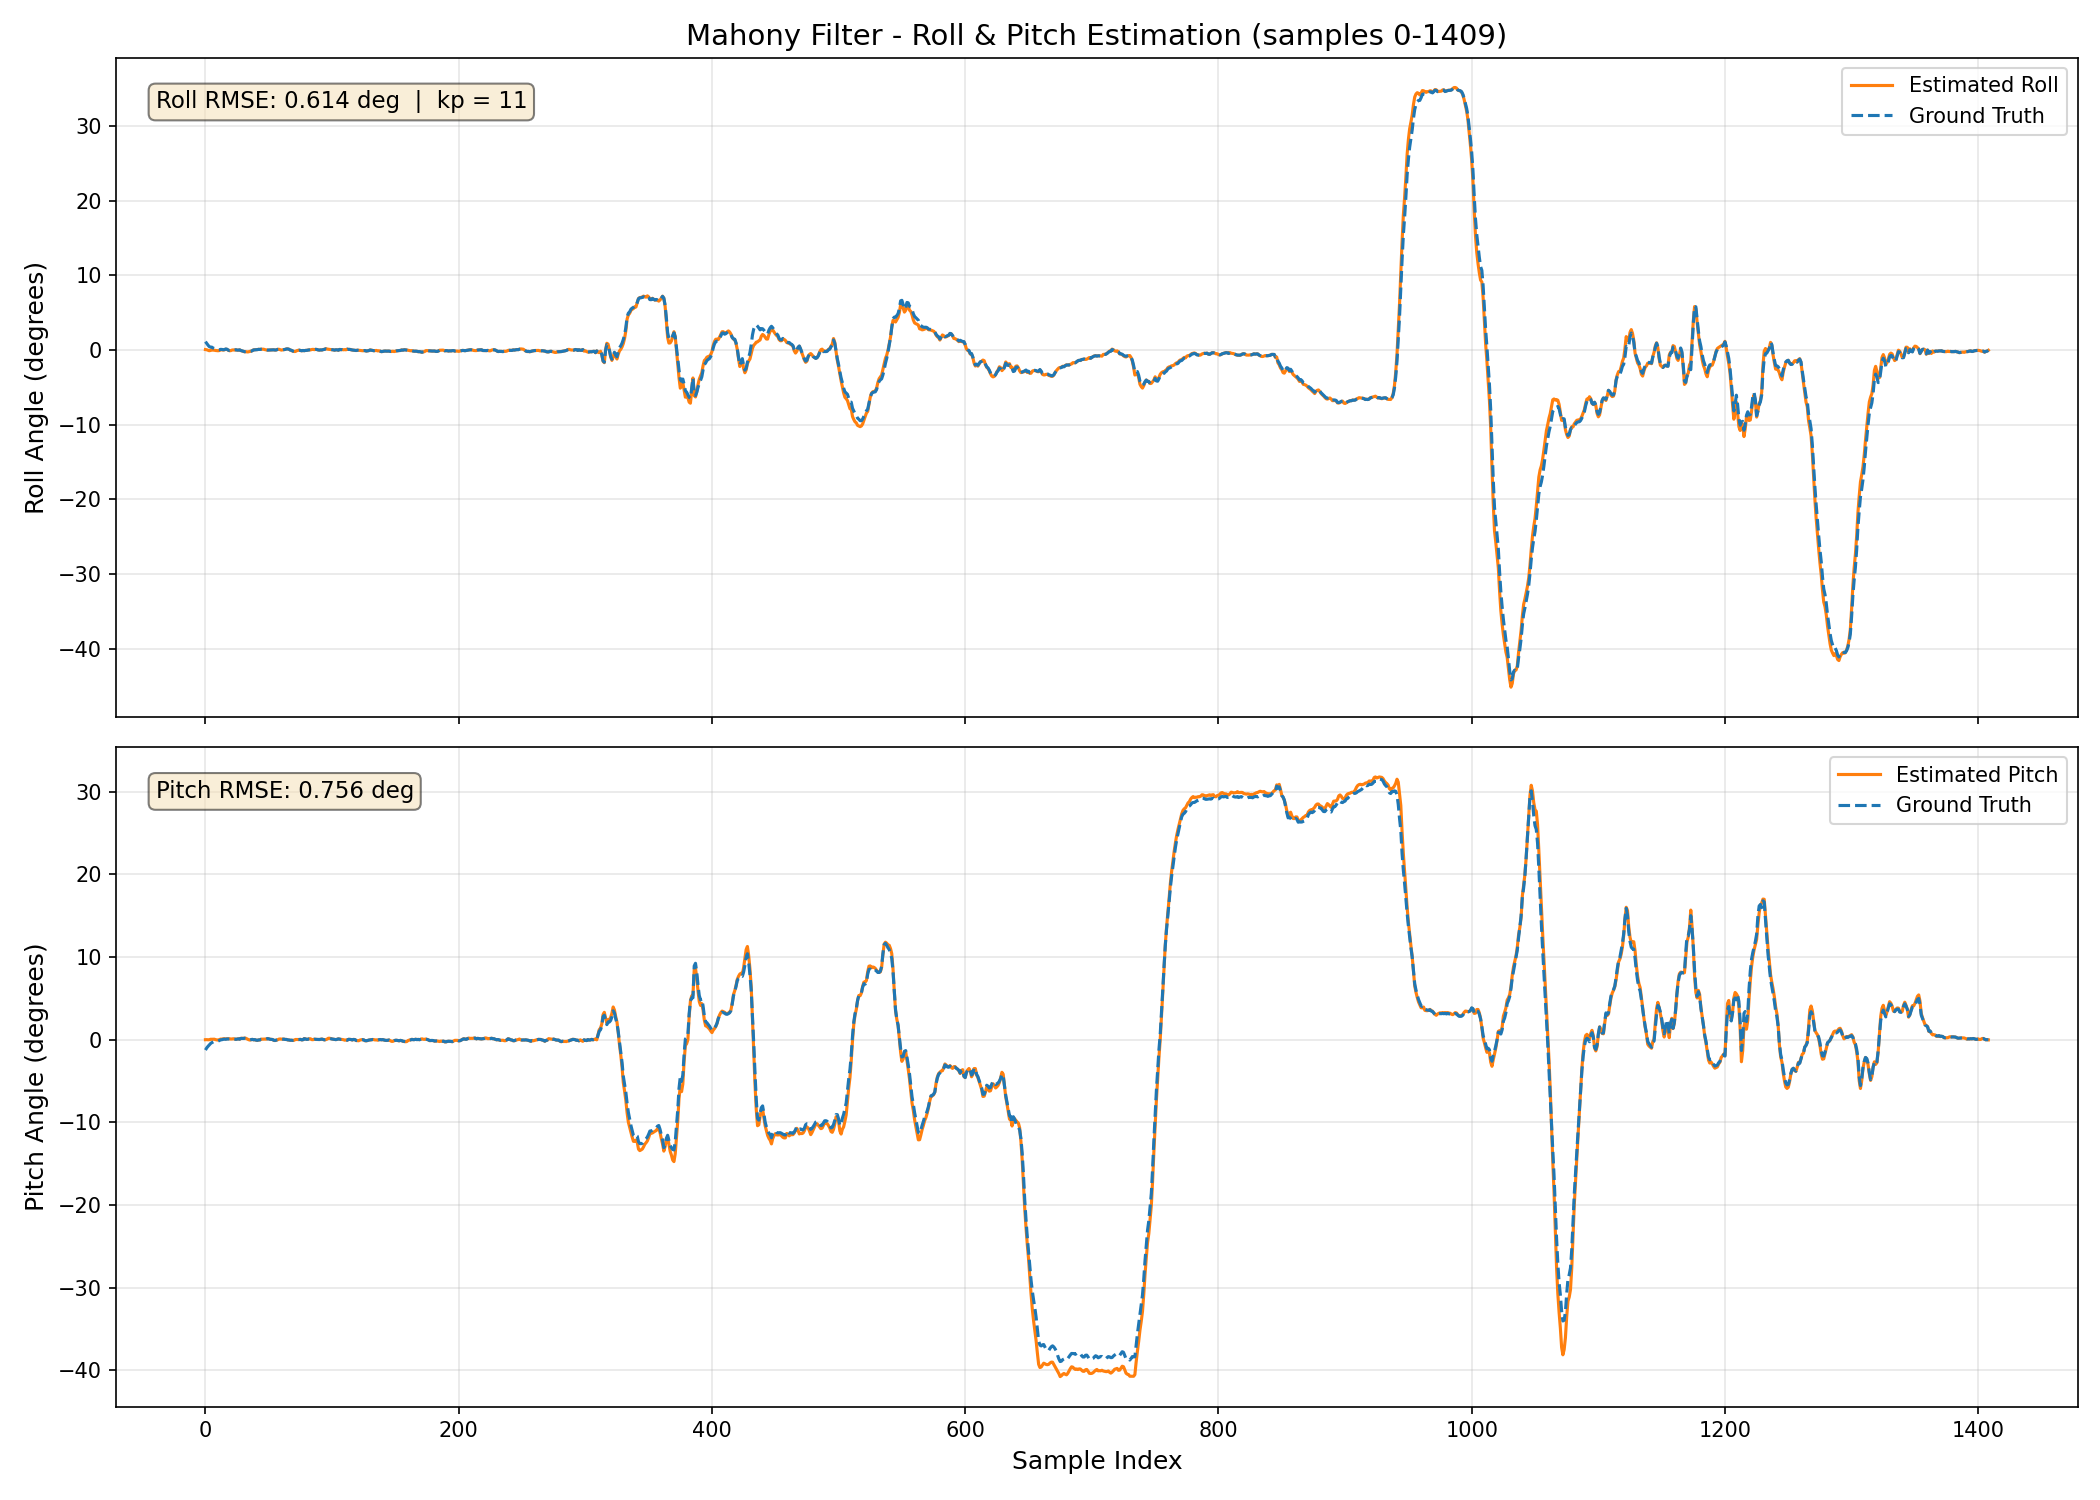
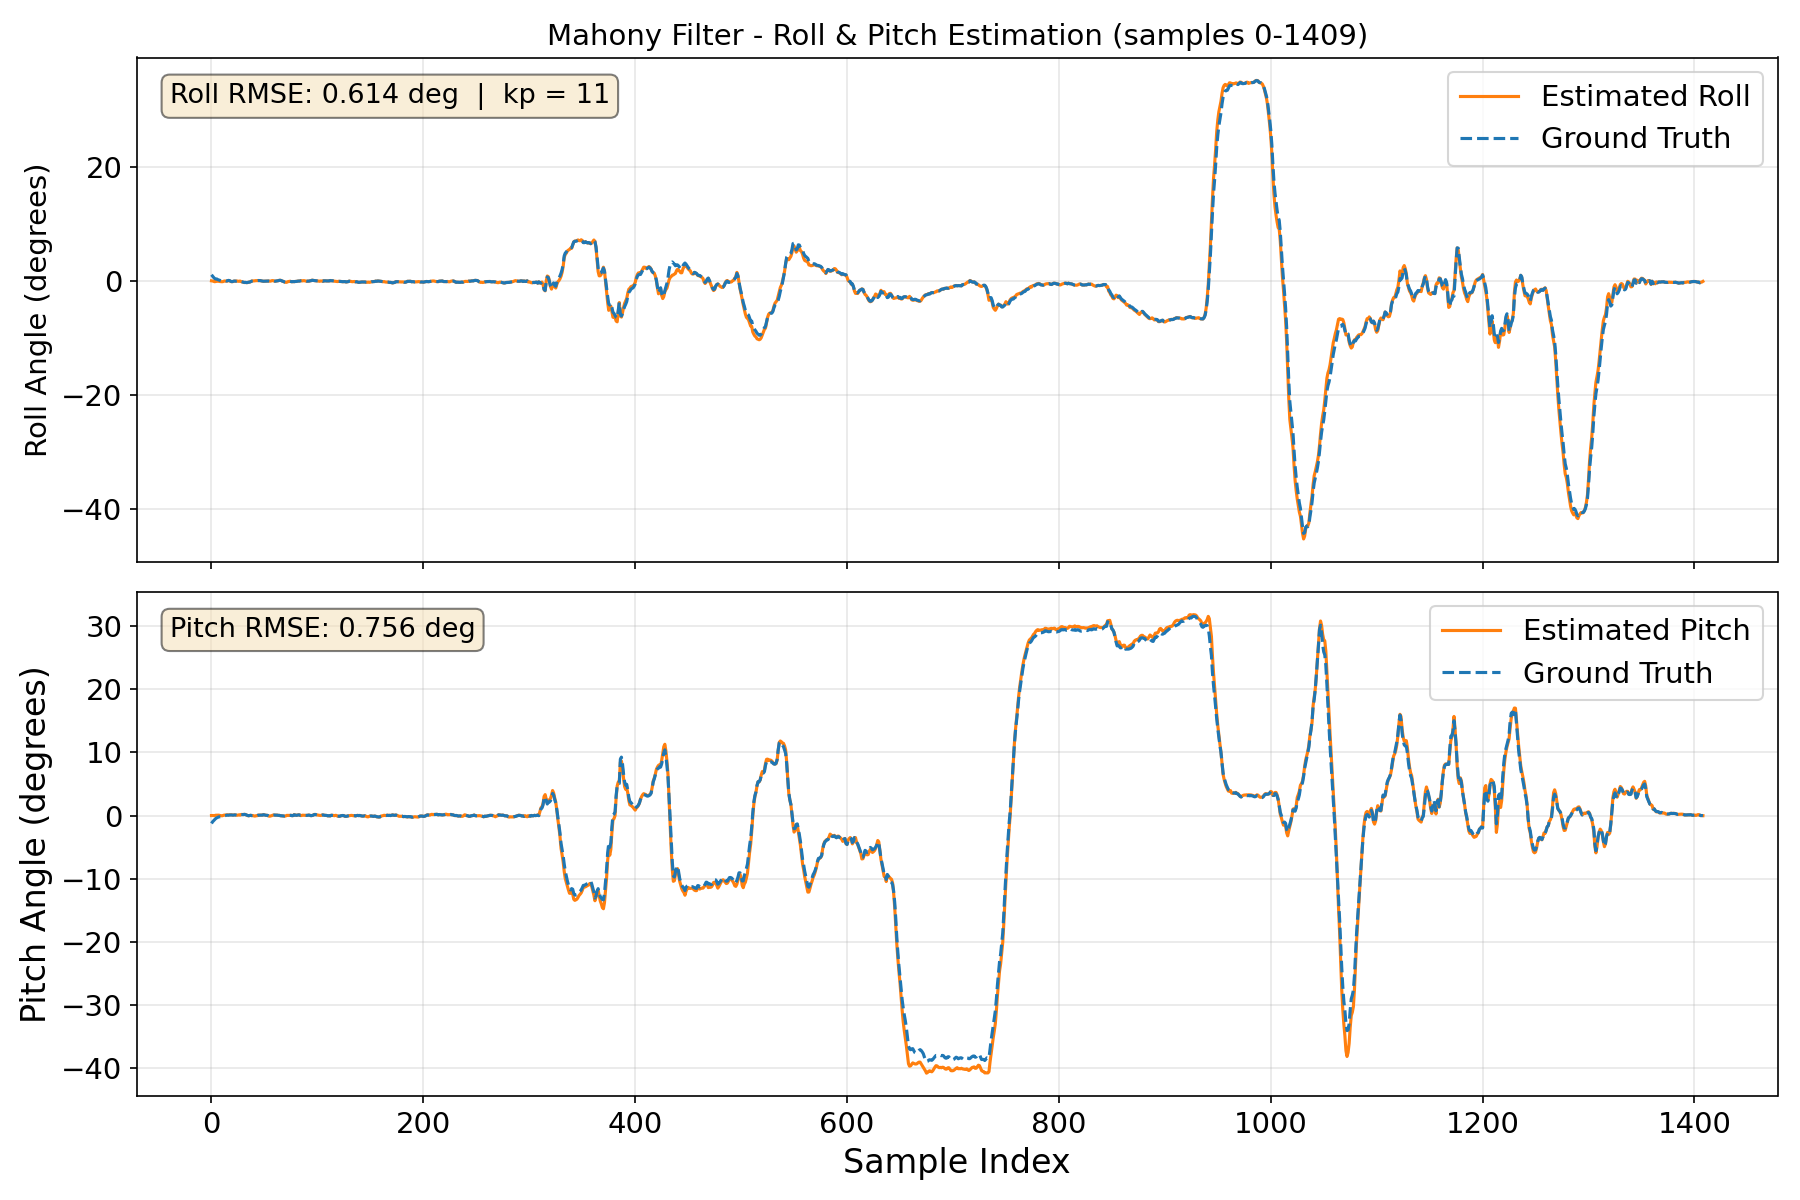
better scirpts

diff --git a/Results/plotDiagrams.py b/Results/plotDiagrams.py
@@ -72,35 +72,40 @@ pitch_pred_zoom = pitchPredicted[start_idx:end_idx]
 pitch_truth_zoom = pitchGroundTruth[start_idx:end_idx]
 time_axis = np.arange(start_idx, end_idx)
 
+
 # Create 2-row subplot
-fig, axes = plt.subplots(2, 1, figsize=(14, 10), sharex=True)
+fig, axes = plt.subplots(2, 1, figsize=(12, 8), sharex=True)
+
+axes[0].tick_params(axis='both', labelsize=14)
+axes[1].tick_params(axis='both', labelsize=14)
 
 # Panel 1: Roll
 axes[0].plot(time_axis, roll_pred_zoom, label='Estimated Roll', linestyle='-', linewidth=1.5, color='#ff7f0e')
 axes[0].plot(time_axis, roll_truth_zoom, label='Ground Truth', linestyle='--', linewidth=1.5, color='#1f77b4')
-axes[0].set_ylabel('Roll Angle (degrees)', fontsize=12)
+axes[0].set_ylabel('Roll Angle (degrees)', fontsize=14)
 axes[0].set_title(f'{config["name"]} - Roll & Pitch Estimation (samples {start_idx}-{end_idx})', fontsize=14)
-axes[0].legend(loc='upper right', fontsize=10)
+axes[0].legend(loc='upper right', fontsize=14)
 axes[0].grid(True, alpha=0.3)
 
 # Add RMSE text for roll
 rmse_text = f'Roll RMSE: {config["roll_rmse"]:.3f} deg'
 if config['param']:
     rmse_text += f'  |  {config["param"]}'
-axes[0].text(0.02, 0.95, rmse_text, transform=axes[0].transAxes, fontsize=11,
+axes[0].text(0.02, 0.95, rmse_text, transform=axes[0].transAxes, fontsize=13,
              verticalalignment='top', bbox=dict(boxstyle='round', facecolor='wheat', alpha=0.5))
 
 # Panel 2: Pitch
 axes[1].plot(time_axis, pitch_pred_zoom, label='Estimated Pitch', linestyle='-', linewidth=1.5, color='#ff7f0e')
 axes[1].plot(time_axis, pitch_truth_zoom, label='Ground Truth', linestyle='--', linewidth=1.5, color='#1f77b4')
-axes[1].set_ylabel('Pitch Angle (degrees)', fontsize=12)
-axes[1].set_xlabel('Sample Index', fontsize=12)
-axes[1].legend(loc='upper right', fontsize=10)
+axes[1].set_ylabel('Pitch Angle (degrees)', fontsize=16)
+axes[1].set_xlabel('Sample Index', fontsize=16)
+axes[1].legend(loc='upper right', fontsize=14)
 axes[1].grid(True, alpha=0.3)
 
 # Add RMSE text for pitch
 axes[1].text(0.02, 0.95, f'Pitch RMSE: {config["pitch_rmse"]:.3f} deg', transform=axes[1].transAxes,
-             fontsize=11, verticalalignment='top', bbox=dict(boxstyle='round', facecolor='wheat', alpha=0.5))
+             fontsize=13, verticalalignment='top', bbox=dict(boxstyle='round', facecolor='wheat', alpha=0.5))
+
 
 plt.tight_layout()
 

diff --git a/Results/plotDiagrams_zoomed.py b/Results/plotDiagrams_zoomed.py
@@ -74,15 +74,17 @@ groundTruthData_zoom = groundTruthData[start_time:end_time]
 time_axis = np.arange(start_time, end_time)
 
 # Create a plot with larger figure size
-plt.figure(figsize=(12, 8))
+plt.figure(figsize=(10, 7))
+plt.tick_params(axis='both', labelsize=14)
+
 plt.plot(time_axis, predictedData_zoom, label=f'Estimated {angle_cap}', linestyle='-', linewidth=2, markersize=4, color='#ff7f0e')
 plt.plot(time_axis, groundTruthData_zoom, label=f'Ground Truth', linestyle='--', linewidth=2, markersize=4, color='#1f77b4')
 
 # Add labels, title, and grid
-plt.xlabel('Sample Index', fontsize=14)
-plt.ylabel(f'{angle_cap} Angle (degrees)', fontsize=14)
+plt.xlabel('Sample Index', fontsize=16)
+plt.ylabel(f'{angle_cap} Angle (degrees)', fontsize=16)
 plt.title(f"Zoomed View: {angle_cap} - {config['name']} (samples {start_time}-{end_time})", fontsize=14)
-plt.legend(fontsize=12)
+plt.legend(fontsize=14)
 plt.grid(True, alpha=0.3)
 
 # Dynamically set y-axis limits with some padding
@@ -94,13 +96,13 @@ plt.ylim(y_min - y_margin, y_max + y_margin)
 # Display RMSE and param on the plot
 plt.text(0.05, 0.95, f'{angle_cap} RMSE (full data): {rmse:.3f} deg',
          transform=plt.gca().transAxes,
-         fontsize=12, color='black', verticalalignment='top',
+         fontsize=14, color='black', verticalalignment='top',
          bbox=dict(boxstyle='round', facecolor='wheat', alpha=0.5))
 
 if config['param']:
     plt.text(0.05, 0.89, config['param'],
              transform=plt.gca().transAxes,
-             fontsize=12, color='black', verticalalignment='top',
+             fontsize=14, color='black', verticalalignment='top',
              bbox=dict(boxstyle='round', facecolor='wheat', alpha=0.5))
 
 # Reduce whitespace margins
